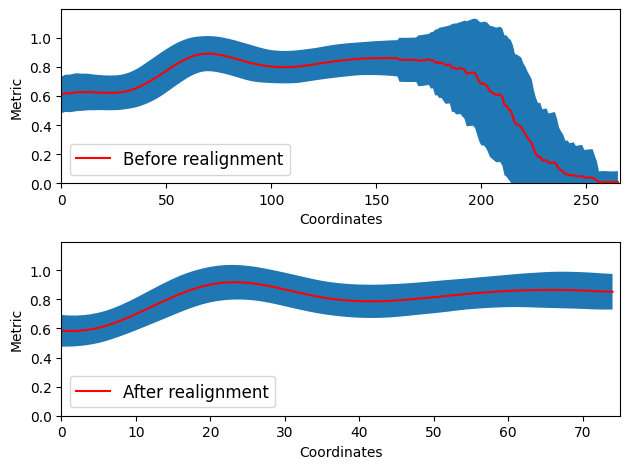
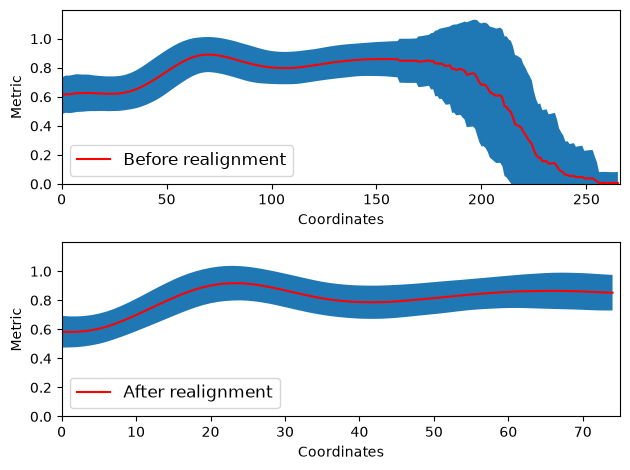
fix numpy shape issue in newer versions

diff --git a/dpr/register.py b/dpr/register.py
@@ -55,7 +55,7 @@ def align_bundles(bundles, percent=15, padding=0., order=1, eps=1e-5, mode='full
         largest_shifts = np.max(np.abs(shifts), axis=1)[original_templater]
         original_templater = original_templater[largest_shifts.argmin()]
 
-    original_templater = int(original_templater)  # it has a weird shape now if singleton
+    original_templater = int(original_templater.squeeze())  # it has a weird shape now if singleton
 
     if rematch_outliers:
         condition = True
